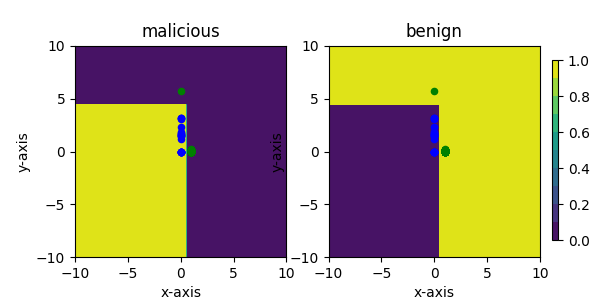
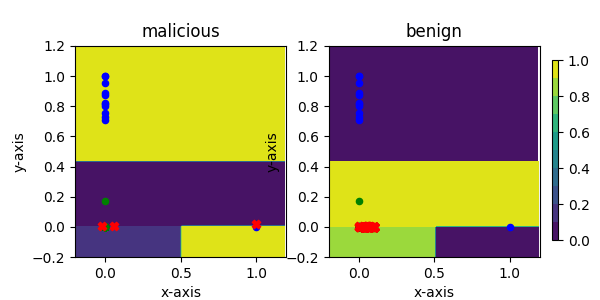
zoo tree

diff --git a/src/adv_iot.py b/src/adv_iot.py
@@ -114,7 +114,7 @@ def adversarial_iot():
 
         # Show predicted probability as contour plot
         h = .01
-        x_min, x_max = -10, 10
+        x_min, x_max = -0.2, 1.2
         y_min, y_max = x_min, x_max
 
         xx, yy = np.meshgrid(np.arange(x_min, x_max, h),
@@ -130,17 +130,18 @@ def adversarial_iot():
             plt.colorbar(im, ax=axs[i], cax=cax)
 
         # Plot adversarial samples
+        success_count = 0
         for j in range(y_train[y_train == i].shape[0]):
             x_1_0 = x_train[y_train == i][j, 0]
             x_1_1 = x_train[y_train == i][j, 1]
             x_2_0 = x_train_adv[y_train == i][j, 0]
             x_2_1 = x_train_adv[y_train == i][j, 1]
             if x_1_0 != x_2_0 or x_1_1 != x_2_1:
-                print('adversarial success!')
-                axs[i].scatter(
-                    x_2_0, x_2_1, zorder=2, c='red', marker='X'
-                )
+                axs[i].scatter(x_2_0, x_2_1,
+                               zorder=2, c='red', marker='X')
+                success_count += 1
 
+        print(f'{text_label(i)} adversarial success', success_count)
         axs[i].set_xlim((x_min, x_max))
         axs[i].set_ylim((y_min, y_max))
         axs[i].set_title(text_label(i))

diff --git a/src/tree.py b/src/tree.py
@@ -64,13 +64,15 @@ def separate_labels(rows_, at_index=-1):
 
 
 def format_data(num_classes, x_train, y_train):
-
     # use numpy arrays
     x_train = np.array([np.array(xi) for xi in x_train])
     y_train = np.array(y_train)
 
-    x_train = x_train[y_train < num_classes][:, [0, 1]]
+    x_train = x_train[y_train < num_classes][:, [2, 3]]
     y_train = y_train[y_train < num_classes]
+
+    x_train[:, 0] = (x_train[:, 0]) / 1744830458
+    x_train[:, 1] = (x_train[:, 1]) / 171878
 
     return x_train, y_train
 
